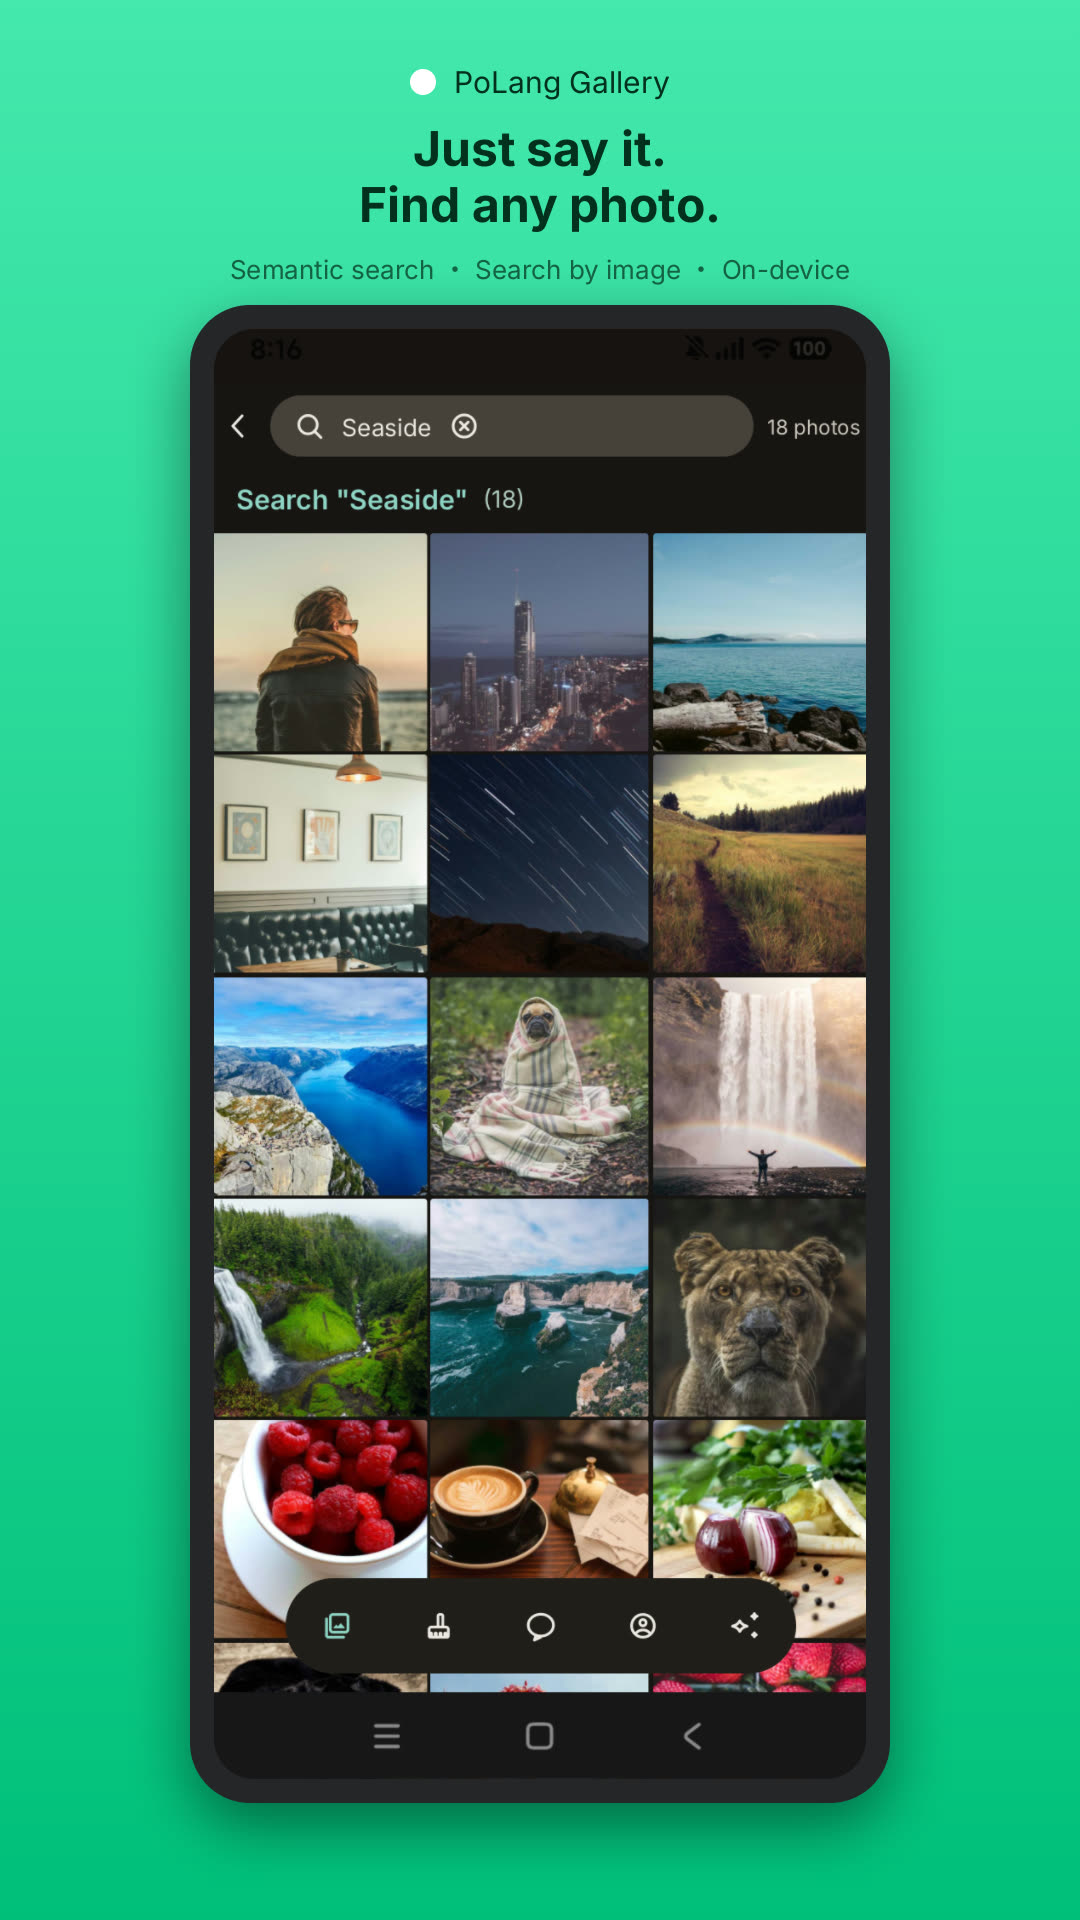
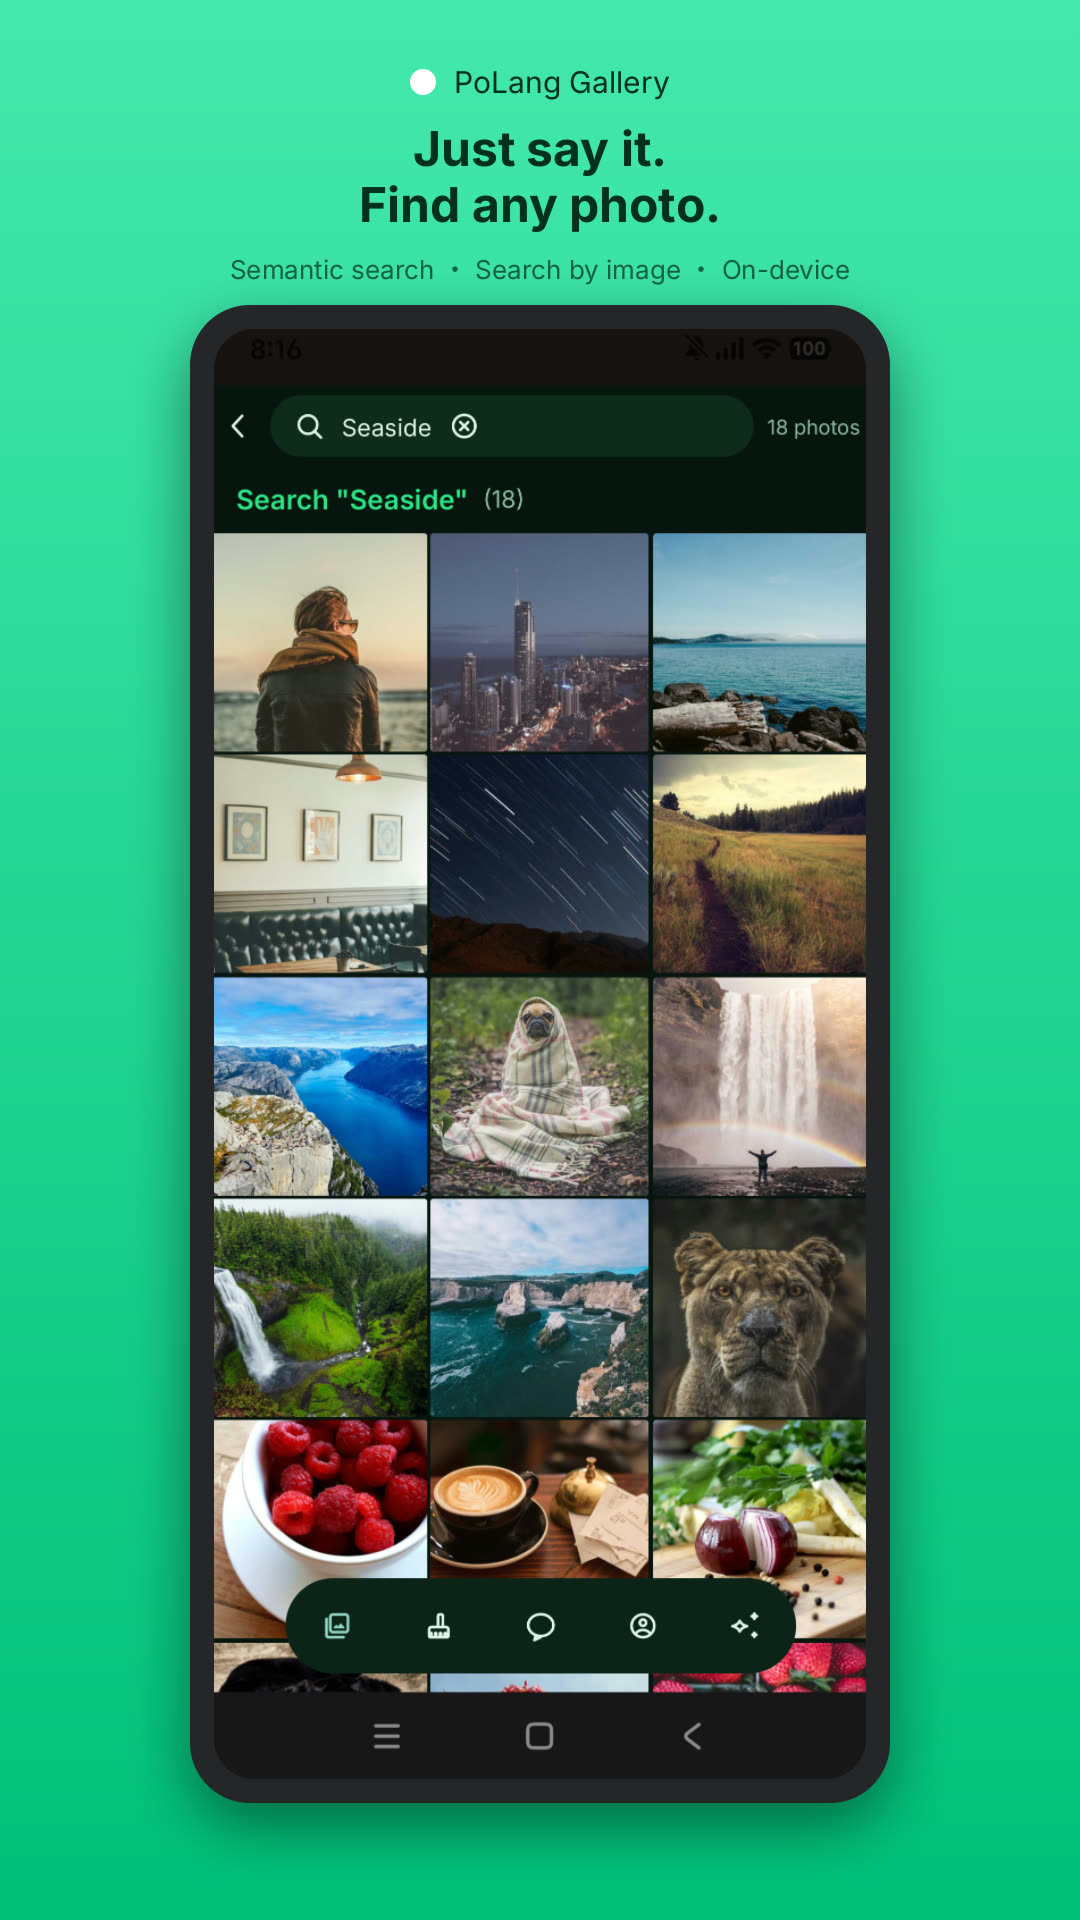
feat(site): 官网换肤 v2.2.3 能量绿×近黑绿 + 截图镜像同步
- site.css 全量 token 映射自 design-tokens.json v2.2.3 Dark
  (bg #071510/primary #2FE385/on-primary #062B18 等 12 变量 +
  17 处 rgba 强调色/容器色/光晕同步)，旧青蓝系零残留
- At a Glance 区 en-US 01/02/05 JPG 重转同步新商店图(ffmpeg q:v4)
- 国际站已部署验证(curl 见 #2fe385/#071510)；国内镜像部署时
  xuxing(82.157.166.5) 22 端口超时，待网络恢复后重跑
  deploy-docs-site-cn.sh(注意:并发会话在途 HTML 未随本次部署)

Changed region(s): [[0.2139, 0.1875, 0.7028, 0.2812], [0.7333, 0.2188, 0.7944, 0.25]]

diff --git a/docs-site/assets/site.css b/docs-site/assets/site.css
@@ -1,20 +1,20 @@
-/* PoLang 官网 · 深色科技感主题（与 App 主色一致：薄荷系，增强电子青光效） */
+/* PoLang 官网 · 深色科技感主题 · v2.2.3 能量绿×近黑绿底，与 App 全局配色一致 */
 :root {
-  --bg: #020a0e;
-  --bg-alt: #041218;
-  --card: #081c22;
-  --footer: #030e13;
-  --text: #eaf7f4;
-  --text-soft: #9fc6c4;
-  --text-muted: #6f9aa0;
-  --border: rgba(127, 231, 210, .22);
-  --border-soft: rgba(127, 231, 210, .10);
-  --primary: #7fe7d2;
-  --on-primary: #003730;
-  --primary-soft: rgba(127, 231, 210, .10);
-  --primary-glow: rgba(127, 231, 210, .45);
-  --cyan: #38bdf8;
-  --danger: #f2b8c6;
+  --bg: #071510;
+  --bg-alt: #0a1b13;
+  --card: #0d2318;
+  --footer: #04100a;
+  --text: #dff5e9;
+  --text-soft: #8fbba6;
+  --text-muted: #5c8371;
+  --border: rgba(47, 227, 133, .22);
+  --border-soft: rgba(47, 227, 133, .10);
+  --primary: #2fe385;
+  --on-primary: #062b18;
+  --primary-soft: rgba(47, 227, 133, .10);
+  --primary-glow: rgba(47, 227, 133, .45);
+  --cyan: #6fd8a5;
+  --danger: #f2b8b5;
   --radius: 16px;
   --shadow-md: 0 18px 44px rgba(0, 0, 0, .45);
   --section-py: 72px;
@@ -30,18 +30,18 @@ body {
 body::before {
   content: ""; position: fixed; inset: 0; z-index: -1; pointer-events: none;
   background:
-    radial-gradient(62% 42% at 50% -6%, rgba(127, 231, 210, .20), transparent 70%),
-    radial-gradient(38% 30% at 92% 18%, rgba(56, 189, 248, .12), transparent 70%),
-    radial-gradient(32% 26% at 6% 30%, rgba(127, 231, 210, .08), transparent 70%),
-    linear-gradient(rgba(127, 231, 210, .05) 1px, transparent 1px),
-    linear-gradient(90deg, rgba(127, 231, 210, .05) 1px, transparent 1px);
+    radial-gradient(62% 42% at 50% -6%, rgba(47, 227, 133, .20), transparent 70%),
+    radial-gradient(38% 30% at 92% 18%, rgba(111, 216, 165, .12), transparent 70%),
+    radial-gradient(32% 26% at 6% 30%, rgba(47, 227, 133, .08), transparent 70%),
+    linear-gradient(rgba(47, 227, 133, .05) 1px, transparent 1px),
+    linear-gradient(90deg, rgba(47, 227, 133, .05) 1px, transparent 1px);
   background-size: auto, auto, auto, 48px 48px, 48px 48px;
 }
 a { color: inherit; text-decoration: none; }
 .container { max-width: 1120px; margin: 0 auto; padding: 0 24px; }
 
 /* 顶栏 */
-.topnav { position: sticky; top: 0; z-index: 20; background: rgba(2, 10, 14, .78); backdrop-filter: saturate(160%) blur(14px); -webkit-backdrop-filter: saturate(160%) blur(14px); border-bottom: 1px solid var(--border-soft); }
+.topnav { position: sticky; top: 0; z-index: 20; background: rgba(7, 21, 16, .78); backdrop-filter: saturate(160%) blur(14px); -webkit-backdrop-filter: saturate(160%) blur(14px); border-bottom: 1px solid var(--border-soft); }
 .topnav-inner { display: flex; align-items: center; justify-content: space-between; height: 62px; }
 .brand { display: flex; align-items: center; gap: 10px; font-weight: 700; font-size: 17px; letter-spacing: -.01em; }
 .brand img { width: 30px; height: 30px; border-radius: 8px; }
@@ -53,7 +53,7 @@ a { color: inherit; text-decoration: none; }
 
 /* Hero */
 .hero { padding: 84px 24px 64px; text-align: center; position: relative; }
-.hero .eyebrow { display: inline-flex; align-items: center; gap: 8px; color: var(--primary); background: var(--primary-soft); border: 1px solid var(--border); border-radius: 999px; padding: 6px 16px; font-size: 13px; font-weight: 600; letter-spacing: .08em; font-family: ui-monospace, "SF Mono", Menlo, Consolas, monospace; box-shadow: 0 0 24px rgba(127, 231, 210, .10), inset 0 0 12px rgba(127, 231, 210, .06); }
+.hero .eyebrow { display: inline-flex; align-items: center; gap: 8px; color: var(--primary); background: var(--primary-soft); border: 1px solid var(--border); border-radius: 999px; padding: 6px 16px; font-size: 13px; font-weight: 600; letter-spacing: .08em; font-family: ui-monospace, "SF Mono", Menlo, Consolas, monospace; box-shadow: 0 0 24px rgba(47, 227, 133, .10), inset 0 0 12px rgba(47, 227, 133, .06); }
 .hero .eyebrow::before { content: ""; width: 7px; height: 7px; border-radius: 999px; background: var(--primary); box-shadow: 0 0 12px var(--primary-glow); }
 .hero h1 { font-size: 54px; line-height: 1.12; letter-spacing: -.03em; font-weight: 800; margin: 26px 0 16px; }
 .hero h1 .mint { color: var(--primary); text-shadow: 0 0 32px var(--primary-glow); }
@@ -61,16 +61,16 @@ a { color: inherit; text-decoration: none; }
 .badges { display: flex; gap: 10px; justify-content: center; flex-wrap: wrap; margin: 28px 0 34px; }
 .badge { background: var(--primary-soft); color: var(--primary); border: 1px solid var(--border); border-radius: 999px; padding: 6px 14px; font-size: 13px; font-weight: 600; }
 .cta-row { display: flex; gap: 14px; justify-content: center; flex-wrap: wrap; }
-.btn { display: inline-flex; align-items: center; gap: 8px; padding: 13px 24px; border-radius: 12px; font-weight: 600; font-size: 15px; transition: transform .12s, box-shadow .12s, border-color .12s, background .12s; border: 1px solid var(--border); color: var(--text); background: rgba(10, 31, 27, .6); }
+.btn { display: inline-flex; align-items: center; gap: 8px; padding: 13px 24px; border-radius: 12px; font-weight: 600; font-size: 15px; transition: transform .12s, box-shadow .12s, border-color .12s, background .12s; border: 1px solid var(--border); color: var(--text); background: rgba(15, 43, 27, .6); }
 .btn:hover { transform: translateY(-1px); border-color: var(--primary); box-shadow: 0 10px 28px rgba(0, 0, 0, .4); }
-.btn.primary { background: var(--primary); color: var(--on-primary); border-color: transparent; box-shadow: 0 10px 34px rgba(127, 231, 210, .38); }
-.btn.primary:hover { box-shadow: 0 14px 44px rgba(127, 231, 210, .55); }
+.btn.primary { background: var(--primary); color: var(--on-primary); border-color: transparent; box-shadow: 0 10px 34px rgba(47, 227, 133, .38); }
+.btn.primary:hover { box-shadow: 0 14px 44px rgba(47, 227, 133, .55); }
 .btn svg { width: 20px; height: 20px; flex-shrink: 0; }
 
 /* 区块通用 */
 section { padding: var(--section-py) 0; }
 .alt { background: var(--bg-alt); border-top: 1px solid var(--border-soft); border-bottom: 1px solid var(--border-soft); }
-.eyebrow-sm { display: block; text-align: center; color: var(--primary); font-size: 13px; font-weight: 700; letter-spacing: .18em; text-transform: uppercase; margin-bottom: 12px; font-family: ui-monospace, "SF Mono", Menlo, Consolas, monospace; text-shadow: 0 0 18px rgba(127, 231, 210, .35); }
+.eyebrow-sm { display: block; text-align: center; color: var(--primary); font-size: 13px; font-weight: 700; letter-spacing: .18em; text-transform: uppercase; margin-bottom: 12px; font-family: ui-monospace, "SF Mono", Menlo, Consolas, monospace; text-shadow: 0 0 18px rgba(47, 227, 133, .35); }
 .section-title { font-size: 34px; font-weight: 800; text-align: center; letter-spacing: -.02em; margin-bottom: 12px; }
 .section-sub { text-align: center; color: var(--text-muted); font-size: 16px; margin-bottom: 34px; }
 
@@ -84,7 +84,7 @@ section { padding: var(--section-py) 0; }
 
 /* 一眼所见(截图)：桌面两排各 4 张（grid，撑满列宽），移动端横向滑动 */
 .shots { display: grid; grid-template-columns: repeat(4, 1fr); gap: 14px; }
-.shots img { width: 100%; height: auto; border-radius: 16px; border: 1px solid var(--border); box-shadow: var(--shadow-md), 0 0 0 6px rgba(127, 231, 210, .04); }
+.shots img { width: 100%; height: auto; border-radius: 16px; border: 1px solid var(--border); box-shadow: var(--shadow-md), 0 0 0 6px rgba(47, 227, 133, .04); }
 
 /* 使用示例 */
 .demo-grid { display: grid; grid-template-columns: repeat(2, 1fr); gap: 18px; }
@@ -95,14 +95,14 @@ section { padding: var(--section-py) 0; }
 .demo-card .do { font-size: 14.5px; color: var(--text-muted); }
 
 /* 开源区块 */
-.oss-card { max-width: 880px; margin: 0 auto; text-align: center; background: linear-gradient(160deg, rgba(127, 231, 210, .10), rgba(10, 31, 27, .6) 55%); border: 1px solid var(--border); border-radius: 24px; padding: 52px 40px; position: relative; overflow: hidden; }
+.oss-card { max-width: 880px; margin: 0 auto; text-align: center; background: linear-gradient(160deg, rgba(47, 227, 133, .10), rgba(15, 43, 27, .6) 55%); border: 1px solid var(--border); border-radius: 24px; padding: 52px 40px; position: relative; overflow: hidden; }
 .oss-card::before { content: ""; position: absolute; inset: -40% 30% auto; height: 240px; background: radial-gradient(closest-side, var(--primary-glow), transparent); opacity: .35; pointer-events: none; }
 .oss-card h2 { font-size: 30px; font-weight: 800; letter-spacing: -.02em; margin-bottom: 14px; }
 .oss-card p { color: var(--text-soft); font-size: 16px; max-width: 620px; margin: 0 auto 26px; }
 
 /* 最终 CTA */
 .final-cta { text-align: center; padding: calc(var(--section-py) + 12px) 0; position: relative; }
-.final-cta::before { content: ""; position: absolute; left: 50%; top: 0; transform: translateX(-50%); width: 640px; max-width: 90vw; height: 320px; background: radial-gradient(closest-side, rgba(127, 231, 210, .16), transparent); pointer-events: none; }
+.final-cta::before { content: ""; position: absolute; left: 50%; top: 0; transform: translateX(-50%); width: 640px; max-width: 90vw; height: 320px; background: radial-gradient(closest-side, rgba(47, 227, 133, .16), transparent); pointer-events: none; }
 .final-cta h2 { font-size: 38px; font-weight: 800; letter-spacing: -.02em; margin-bottom: 14px; position: relative; }
 .final-cta p { color: var(--text-muted); margin-bottom: 30px; position: relative; }
 .final-cta .cta-row { position: relative; }
@@ -133,30 +133,30 @@ footer .x-logo svg { width: 56px; height: 56px; }
 .guide-carousel { position: relative; max-width: 880px; margin: 0 auto; }
 .guide-viewport { overflow: hidden; border-radius: var(--radius); box-shadow: var(--shadow-md); }
 .guide-track { display: flex; transition: transform .55s cubic-bezier(.4, 0, .2, 1); will-change: transform; }
-.guide-slide { min-width: 100%; display: flex; align-items: center; gap: 32px; padding: 30px 34px; background: linear-gradient(120deg, #0a1f1b 48%, #0d2a24 100%); border: 1px solid var(--border-soft); box-sizing: border-box; }
+.guide-slide { min-width: 100%; display: flex; align-items: center; gap: 32px; padding: 30px 34px; background: linear-gradient(120deg, #0a1b13 48%, #0d2318 100%); border: 1px solid var(--border-soft); box-sizing: border-box; }
 .guide-slide > img { height: 400px; width: auto; flex-shrink: 0; border-radius: 14px; border: 1px solid var(--border); box-shadow: var(--shadow-md); display: block; }
 .guide-cap { flex: 1 1 auto; min-width: 0; }
-.guide-cap .gs { display: inline-flex; align-items: center; gap: 7px; color: var(--on-primary); background: var(--primary); border-radius: 999px; padding: 6px 15px; font-size: 13px; font-weight: 700; margin-bottom: 14px; box-shadow: 0 6px 18px rgba(127, 231, 210, .3); letter-spacing: .02em; }
+.guide-cap .gs { display: inline-flex; align-items: center; gap: 7px; color: var(--on-primary); background: var(--primary); border-radius: 999px; padding: 6px 15px; font-size: 13px; font-weight: 700; margin-bottom: 14px; box-shadow: 0 6px 18px rgba(47, 227, 133, .3); letter-spacing: .02em; }
 .guide-cap .gs::before { content: ""; width: 6px; height: 6px; border-radius: 999px; background: var(--on-primary); opacity: .9; }
 .guide-cap h3 { font-size: 23px; font-weight: 800; margin-bottom: 10px; letter-spacing: -.01em; color: var(--text); }
 .guide-cap p { font-size: 15px; color: var(--text-soft); line-height: 1.75; }
 .guide-cap p b { color: var(--primary); font-weight: 700; }
 .guide-cap .gtags { display: flex; gap: 8px; flex-wrap: wrap; margin-top: 14px; }
-.guide-cap .gtag { background: rgba(3, 13, 11, .5); color: var(--text-soft); border: 1px solid var(--border-soft); border-radius: 999px; padding: 4px 12px; font-size: 12px; font-weight: 600; }
-.guide-cap .gtag.must { background: rgba(242, 184, 198, .10); color: var(--danger); border-color: rgba(242, 184, 198, .22); }
+.guide-cap .gtag { background: rgba(4, 16, 10, .5); color: var(--text-soft); border: 1px solid var(--border-soft); border-radius: 999px; padding: 4px 12px; font-size: 12px; font-weight: 600; }
+.guide-cap .gtag.must { background: rgba(242, 184, 181, .10); color: var(--danger); border-color: rgba(242, 184, 181, .22); }
 .guide-cap .gtag.opt { background: var(--primary-soft); color: var(--primary); border-color: var(--border); }
 .guide-arrow { position: absolute; top: 50%; transform: translateY(-50%); width: 42px; height: 42px; border-radius: 999px; border: 1px solid var(--border); background: var(--card); cursor: pointer; font-size: 22px; line-height: 1; color: var(--text-soft); display: flex; align-items: center; justify-content: center; z-index: 2; transition: border-color .15s, color .15s, transform .15s; }
 .guide-arrow:hover { border-color: var(--primary); color: var(--primary); transform: translateY(-50%) scale(1.06); }
 .guide-prev { left: 10px; } .guide-next { right: 10px; }
 .guide-dots { display: flex; gap: 7px; justify-content: center; margin-top: 20px; }
-.guide-dots button { width: 8px; height: 8px; border-radius: 999px; border: none; background: rgba(127, 231, 210, .22); cursor: pointer; padding: 0; transition: background .2s, width .2s; }
+.guide-dots button { width: 8px; height: 8px; border-radius: 999px; border: none; background: rgba(47, 227, 133, .22); cursor: pointer; padding: 0; transition: background .2s, width .2s; }
 .guide-dots button.on { background: var(--primary); width: 24px; }
 .guide-more { text-align: center; margin-top: 6px; }
 .guide-more a { color: var(--primary); font-weight: 600; font-size: 14px; }
 .guide-more a:hover { text-decoration: underline; }
 
 /* 图片放大查看（灯箱） */
-.lightbox { position: fixed; inset: 0; background: rgba(2, 8, 7, .95); display: none; align-items: center; justify-content: center; z-index: 999; padding: 18px; cursor: zoom-out; }
+.lightbox { position: fixed; inset: 0; background: rgba(4, 16, 10, .95); display: none; align-items: center; justify-content: center; z-index: 999; padding: 18px; cursor: zoom-out; }
 .lightbox.show { display: flex; }
 .lightbox img { max-width: 100%; max-height: 100%; object-fit: contain; border-radius: 10px; box-shadow: 0 20px 60px rgba(0, 0, 0, .6); }
 
